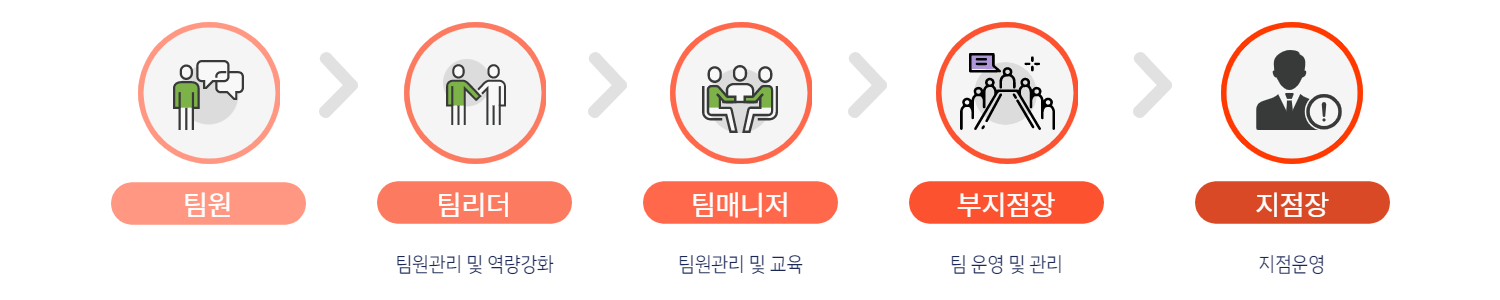
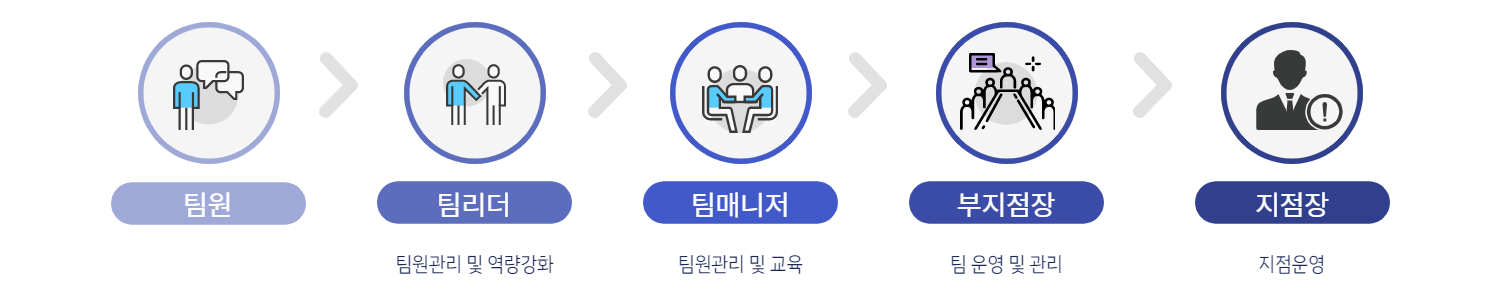
1.1.5

diff --git a/How_To_Work.html b/How_To_Work.html
@@ -62,33 +62,53 @@
                 <h2>WHO WE WANT</h2>
                 <div class="text_wrap">
                     <P>
-                        <span>성실과 긍정적인 태도</span>를 기본으로 하여<br>
-                        <span>타인을 존중하고, 항상 배우는 자세</span>로 비즈니스에 임하는 당신이<br>
+                        정직과 성실함을 기본으로 하여<br>
+                        <span>자기주도적이며 배우려는 자세</span>를 가지고<span>긍정적인 마음으로</span><br>
+                        <span>팀워크에 임하는 당신이</span><br>
                         슈퍼마케팅이 원하는 인재의 모습입니다.
                     </P>
                 </div>
                 <div class="img_wrap">
-                    <img src="img/png/how_to_work/attitude.png" alt="슈퍼마케팅 인재상">
+                    <img src="img/png/how_to_work/attitude-01.png" alt="슈퍼마케팅 인재상">
                 </div>
             </div>
             <div class="cont bottom">
                 <div class="text_wrap" data-aos="fade-right" data-aos-offset="400" data-aos-easing="ease-in-out" data-aos-duration="700">
-                    <strong>근면, 성실(INDUSTRIOUS)</strong>
-                    <P>
-                        모든일에 솔직하고 맑고 거짓없이 비즈니스에 임하며 구성원으로서 과감한 실행력.
-                    </P>
+                    <strong>자기주도적(SELF-DIRECTED)</strong>
+                    <P>타인의 간섭이 필요 없이 실천하려는 능동적인 태도</P>
                 </div>
                 <div class="text_wrap" data-aos="fade-right" data-aos-offset="400" data-aos-easing="ease-in-out" data-aos-duration="700">
-                    <strong>겸손(MODESTY)</strong>
-                    <P>자신의 역량을 파악하고 구성원들과 협업하여 큰 성과를 냄.</P>
+                    <strong>배우려는 자세(ATTITUDE TO LEARN)</strong>
+                    <P>스스로 터득하여 몸에 익힘</P>
                 </div>
                 <div class="text_wrap" data-aos="fade-right" data-aos-offset="400" data-aos-easing="ease-in-out" data-aos-duration="700">
-                    <strong>존중(RESPECT)</strong>
-                    <P>타인 혹은 고객, 구성원들을 정중히 대하며, 상대로 부터 진지한 태도를 이끌어내고, 기분좋은 소통을 함.</P>
+                    <strong>긍정적인 마음(POSITIVE MIND)</strong>
+                    <P>어떠한 상황에서도 의지가 꺾이지 않으며, 좋은 방향으로 타개하려 함</P>
+                </div>
+                <div class="text_wrap" data-aos="fade-right" data-aos-offset="400" data-aos-easing="ease-in-out" data-aos-duration="700">
+                    <strong>팀워크(TEAMWORK)</strong>
+                    <P>타인과 화합하고 협업하여, 더 효율적이며 최고의 성과를 냄</P>
                 </div>
             </div>
         </section>
         <section class="sec02" data-aos="fade-up" data-aos-offset="300" data-aos-easing="ease-in-out" data-aos-duration="1500">
+            <div class="cont">
+                <h2>CORE VALUE</h2>
+                <div class="text_wrap">
+                    <p>1. 고객들에게 감동을 선사하라</p>
+                    <p>2. 성장을 위하여 상황을 변화를 받아들이고 추진하라</p>
+                    <p>3. 혁신은 기발한 생각에서 나온다</p>
+                    <p>4. 실수를 두려워하지 말고 항상 도전하라</p>
+                    <p>5. 성장과 배움을 추구하라</p>
+                    <p>6. 남들보다 앞서가는 정보는 적극적인 의사소통은 열린 관계에서 얻는다</p>
+                    <p>7. 긍정적인 팀과 가족애로 서로를 격려하라</p>
+                    <p>8. 적은것으로 많은 것을 이루어내라</p>
+                    <p>9. 긍정적이지만 단호해져라</p>
+                    <p>10. 늘 겸손하며 자만을 하지 않으며, 다른사람을 베풀어라</p>
+                </div>
+            </div>
+        </section>
+        <section class="sec03" data-aos="fade-up" data-aos-offset="300" data-aos-easing="ease-in-out" data-aos-duration="1500">
             <div class="cont">
                 <h2>SPM RANK SYSTEM</h2>
                 <div class="img_wrap">

diff --git a/css/sub3.css b/css/sub3.css
@@ -41,14 +41,14 @@ h2:after {
   font-size: 1.6rem;
 }
 
-.sec01 .top img {
+.sec01 .top .img_wrap {
+  margin-top: 70px;
+}
+
+.sec01 .top .img_wrap img {
   width: 100%;
   -o-object-fit: cover;
      object-fit: cover;
-}
-
-.sec01 .bottom {
-  padding-bottom: 80px;
 }
 
 .sec01 .bottom .text_wrap {
@@ -67,15 +67,19 @@ h2:after {
 }
 
 .sec01 .bottom .text_wrap:first-child:before {
-  background: #AFD485;
+  background: #B8E9FF;
 }
 
 .sec01 .bottom .text_wrap:nth-child(2):before {
-  background: #12887A;
+  background: #58CCFF;
+}
+
+.sec01 .bottom .text_wrap:nth-child(3):before {
+  background: #1187CF;
 }
 
 .sec01 .bottom .text_wrap:last-child:before {
-  background: #7DB249;
+  background: #3A4CA8;
 }
 
 .sec01 .bottom .text_wrap strong {
@@ -86,17 +90,48 @@ h2:after {
   padding-top: 15px;
 }
 
-/* sub03-section-02 */
+/* sub2-section-03 */
+.sec02 {
+  background: url(../img/jpg/how_to_work/lighthouse.jpg) no-repeat center;
+  background-size: cover;
+}
+
 .sec02 .cont {
+  padding: 120px;
+  text-align: center;
+}
+
+.sec02 h2 {
+  color: white;
+}
+
+.sec02 h2:after {
+  display: none;
+}
+
+.sec02 .text_wrap {
+  background: rgba(255, 255, 255, 0.7);
+  margin-top: 50px;
+  padding: 50px 15px;
+}
+
+.sec02 .text_wrap p {
+  font-size: 1.3rem;
+  font-weight: 400;
+  line-height: 3;
+}
+
+/* sub03-section-03 */
+.sec03 .cont {
   padding-top: 100px;
 }
 
-.sec02 .img_wrap {
-  padding-top: 100px;
+.sec03 .img_wrap {
+  padding-top: 150px;
   padding-bottom: 150px;
 }
 
-.sec02 .img_wrap img {
+.sec03 .img_wrap img {
   width: 100%;
   -o-object-fit: cover;
      object-fit: cover;
@@ -116,21 +151,25 @@ h2:after {
   .sec01 .bottom .text_wrap {
     margin-bottom: 40px;
   }
-  .sec02 li {
+  .sec02 .cont {
+    padding: 80px 20px;
+    text-align: center;
+  }
+  .sec03 li {
     -ms-flex-wrap: wrap;
         flex-wrap: wrap;
   }
-  .sec02 .thumbnail {
+  .sec03 .thumbnail {
     -ms-flex-preferred-size: 100%;
         flex-basis: 100%;
   }
-  .sec02 .text_wrap {
+  .sec03 .text_wrap {
     -ms-flex-preferred-size: 100%;
         flex-basis: 100%;
     margin-left: 0px;
     margin-top: 30px;
   }
-  .sec02 .text_wrap br {
+  .sec03 .text_wrap br {
     display: none;
   }
 }

diff --git a/css/sub3.scss b/css/sub3.scss
@@ -65,13 +65,15 @@ h2{
                 font-size: 1.6rem;
             }
         }
-        img{
-            width: 100%;
-            object-fit: cover;
+        .img_wrap{
+            margin-top: 70px;
+            img{
+                width: 100%;
+                object-fit: cover;
+            }
         }
     }
     .bottom{
-        padding-bottom: 80px;
         .text_wrap{
             position: relative;
             margin-bottom: 80px;
@@ -82,22 +84,47 @@ h2{
                 height: 100%; 
                 @include aftersty;
             }
-            &:first-child:before{ background: #AFD485;}
-            &:nth-child(2):before{ background: #12887A;}
-            &:last-child:before{ background: #7DB249;}
+            &:first-child:before{ background: #B8E9FF;}
+            &:nth-child(2):before{ background: #58CCFF;}
+            &:nth-child(3):before{ background: #1187CF;}
+            &:last-child:before{ background: #3A4CA8;}
             strong{font-size: 1.2rem;}
             p{ padding-top: 15px;}
         }
     }
 }
 
-/* sub03-section-02 */
+/* sub2-section-03 */
 .sec02{
+    background: url(../img/jpg/how_to_work/lighthouse.jpg) no-repeat center;
+    background-size: cover;
+    .cont{
+        padding: 120px;
+        text-align: center;
+    }
+    h2{
+        color: white;
+        &:after{ display: none;}
+    }
+    .text_wrap{
+        background: rgba(255,255,255,0.7);
+        margin-top: 50px;
+        padding: 50px 15px;
+        p{
+            font-size: 1.3rem;
+            font-weight: 400;
+            line-height: 3;
+        }
+    }
+}
+
+/* sub03-section-03 */
+.sec03{
     .cont{
         padding-top: 100px;
     }
     .img_wrap{
-        padding-top: 100px;
+        padding-top: 150px;
         padding-bottom: 150px;
         img{
             width: 100%;
@@ -119,6 +146,12 @@ h2{
         }
     }
     .sec02{
+        .cont{
+            padding: 80px 20px;
+            text-align: center;
+        }
+    }
+    .sec03{
         li{ flex-wrap: wrap;}
         .thumbnail{ flex-basis: 100%;}
         .text_wrap{ 

diff --git a/Our_Business.html b/Our_Business.html
@@ -113,6 +113,19 @@
                         </div>
                     </li>
                     <li class="client_co" data-aos="fade-right" data-aos-offset="400" data-aos-easing="ease-in-out" data-aos-duration="700">
+                        <a class="thumbnail" href="http://www.happygiver.or.kr/" target="blank">
+                            <img src="img/png/client_logo/happygiver.png" alt="해피기버">
+                        </a>
+                        <div class="text_wrap">
+                            <strong>해피기버</strong>
+                            <p>
+                                해피기버는 보건복지부 승인 비영리법인으로 2013년 부터 꾸준히 활동하고 있습니다.<br>
+                                이웃사랑을 실천하는 정신을 바탕으로 구제 및 상담지원과 제도상의 문제로 정부나 기관의 도움을 받기<br>
+                                힘든 이들의 찾아가, 새로운 삶을 찾아주는데 목적이 있는 공익 단체입니다.
+                            </p>
+                        </div>
+                    </li>
+                    <li class="client_co" data-aos="fade-right" data-aos-offset="400" data-aos-easing="ease-in-out" data-aos-duration="700">
                         <a class="thumbnail" href="https://www.boram.com/" target="blank">
                             <img src="img/png/client_logo/boram.png" alt="보람상조">
                         </a>

diff --git a/css/main.css b/css/main.css
@@ -106,7 +106,7 @@
 
 /* section-02,03 */
 .sec01, .sec02 {
-  background: #2489bc;
+  background: #18A8F1;
 }
 
 .sec01 .cont, .sec02 .cont {
@@ -233,7 +233,7 @@
 }
 
 .sec03 .cont .more {
-  color: #2489bc;
+  color: #18A8F1;
   font-weight: 700;
   font-size: 1.3rem;
 }
@@ -245,7 +245,7 @@
 
 .sec04 h2 {
   padding: 30px 0;
-  color: #2489bc;
+  color: #18A8F1;
   letter-spacing: 2px;
   text-align: center;
 }

diff --git a/css/common.scss b/css/common.scss
@@ -118,7 +118,6 @@ nav{
     }
     li{
         padding: 0 12px;
-        &:first-child a{ color: $subcolor1;}
         a{
             display: block;
             color: white;

diff --git a/css/common.css b/css/common.css
@@ -131,10 +131,6 @@ nav li {
   padding: 0 12px;
 }
 
-nav li:first-child a {
-  color: #f2922c;
-}
-
 nav li a {
   display: block;
   color: white;

diff --git a/css/main.scss b/css/main.scss
@@ -1,4 +1,4 @@
-$maincolor: #2489bc;
+$maincolor: #18A8F1;
 $subcolor1: #f2922c; 
 $subcolor2: #333333;
 $contwidth: 1200px;
